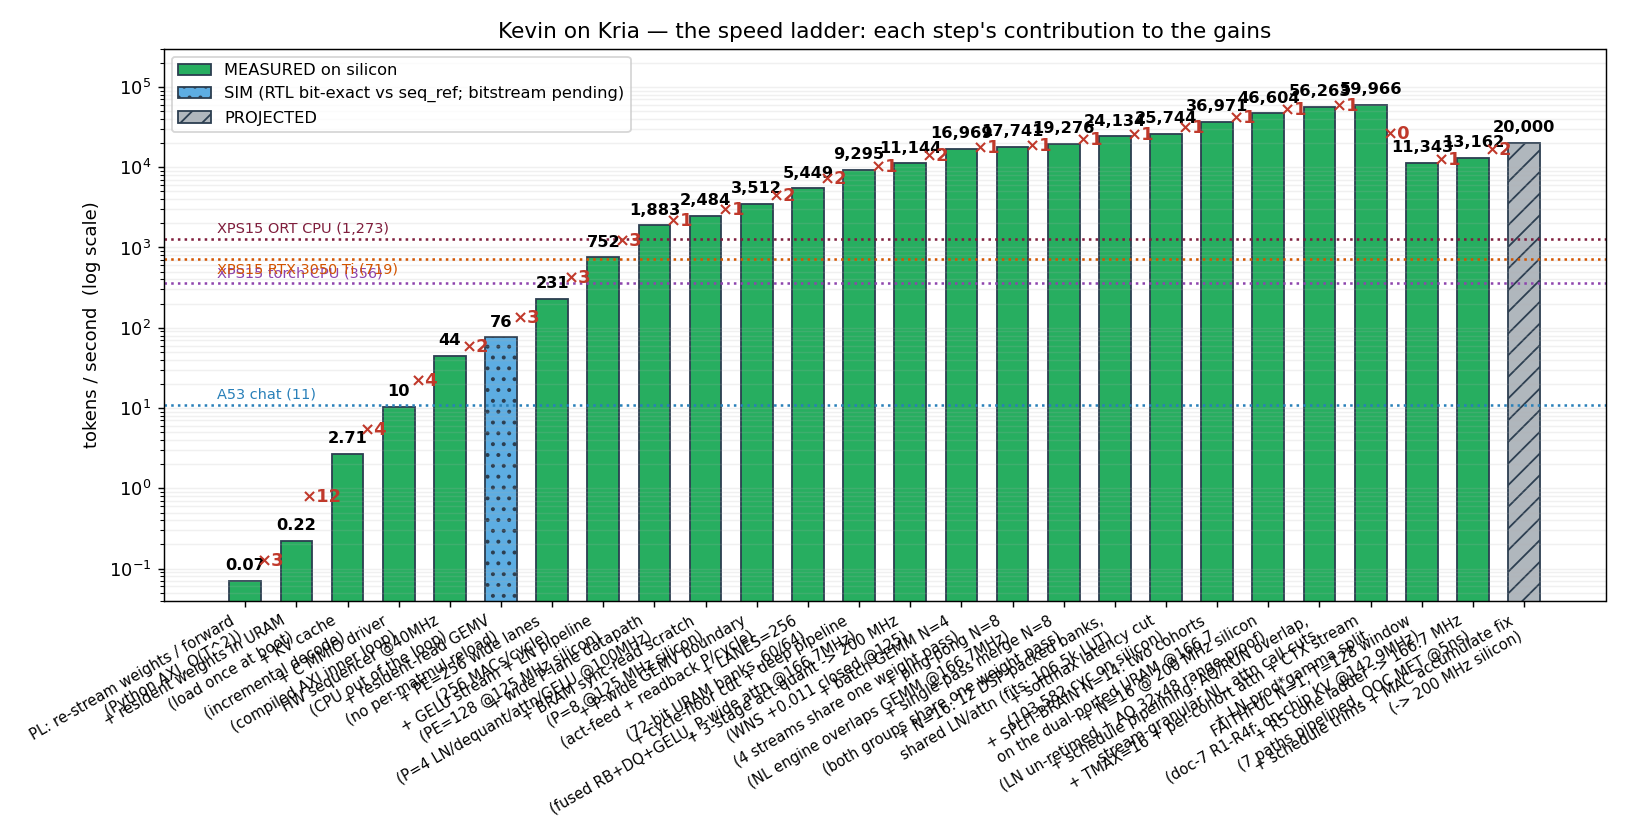
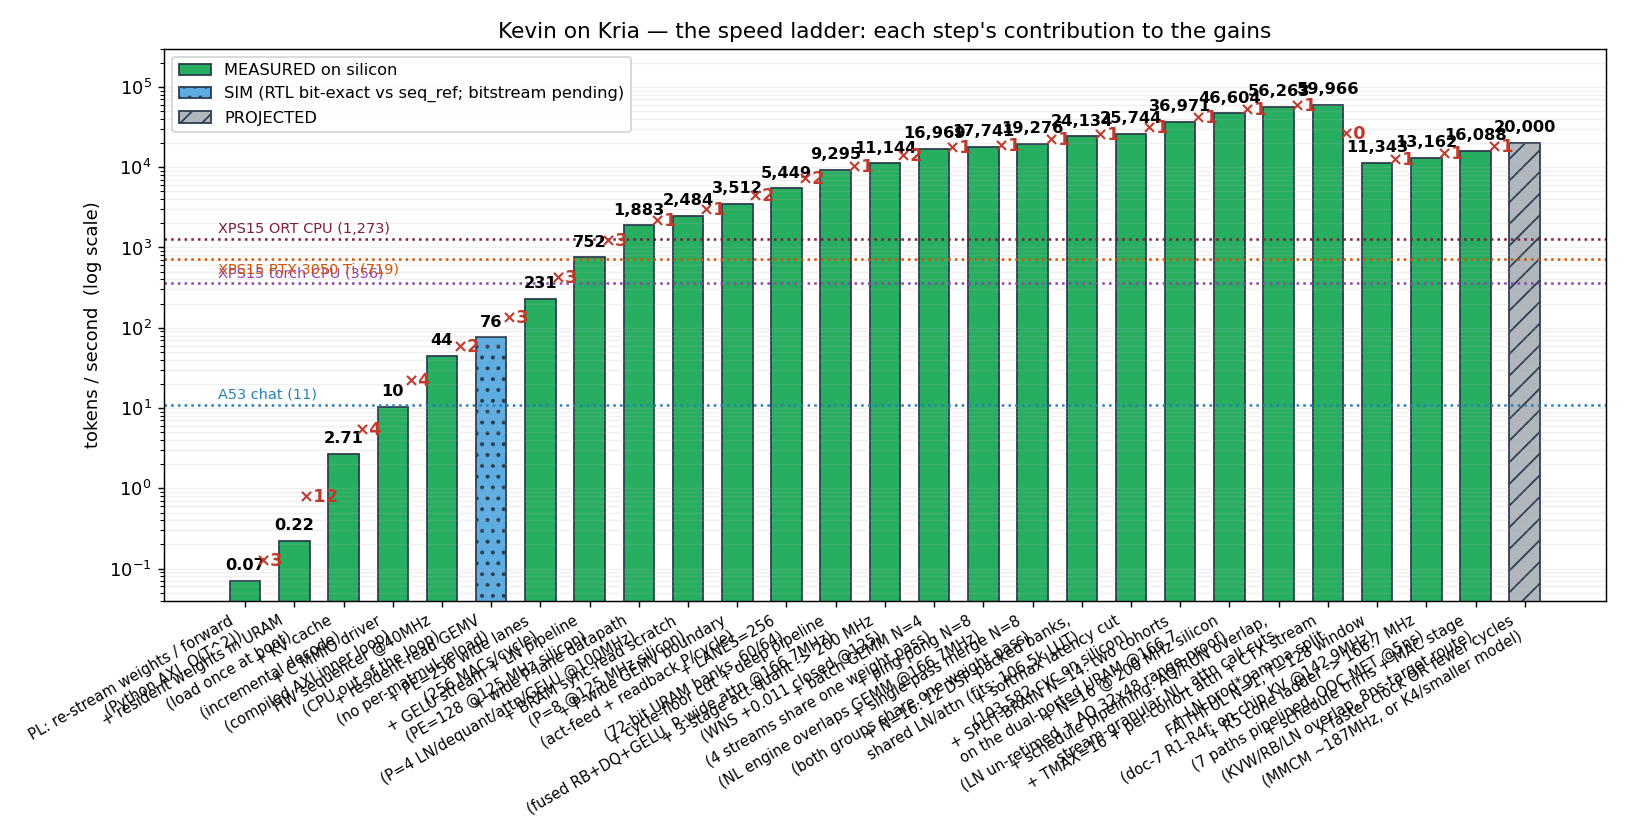
NEW RECORD: 16,087.5 tok/s @166.7 faithful, 3/3 (log #43); trims build routed at 8ns target, deployed live

diff --git a/fabric/progress.py b/fabric/progress.py
@@ -75,8 +75,10 @@ LADDER = [
      "the T=1 degenerate attention — 119-tok real message, 12,594 cyc/tok avg, 3/3 bit-exact"),
     ("+ R5 cone ladder -> 166.7 MHz\n(7 paths pipelined, OOC MET @5ns)", 13162.3, "MEASURED",
      "the kv-quantise / attn-dot / min-max / AQ timing cones (12,662 cyc/tok, 3/3; 200 fails on the MAC floor)"),
-    ("+ schedule trims + MAC accumulate fix\n(-> 200 MHz silicon)", 20000.0, "PROJECTED",
-     "the last ~2.7k cyc (KVW overlap, dual-row RB, LN/AQ feeds) + the accb carry chain -> the 20k line"),
+    ("+ schedule trims + MAC stage\n(KVW/RB/LN overlap, 8ns-target route)", 16087.5, "MEASURED",
+     "~2.2k cyc (AQ/RUN + groupwise RB + KV feeder + LN fusion); 10,360 cyc/tok, 3/3 @166.7 (5ns build was unroutable; 200 fails)"),
+    ("x faster clock OR fewer cycles\n(MMCM ~187MHz, or K4/smaller model)", 20000.0, "PROJECTED",
+     "the PS PLL caps at 166.7 (200 fails timing); 20k needs ~207MHz on this design -> an MMCM ~187 gets ~18k, the K4/smaller-model cycle cut gets 20k"),
 ]
 
 # reference baselines (drawn as guide lines, not rungs) — all the same model, B=1 greedy

diff --git a/fabric/stage3/WIDE-WORD-DATAPATH-LOG.md b/fabric/stage3/WIDE-WORD-DATAPATH-LOG.md
@@ -1365,3 +1365,30 @@ cyc, even ~150MHz board = 14.5k (> the 13,162 record). If 125-target ALSO fails
 to route, the trims are fundamentally too dense and the R5 build (13,162 @166.7,
 deployed) stands as the faithful ceiling — 20k then needs the K4/smaller-model
 lever, not more logic.
+
+## 43. NEW RECORD: 16,087.5 tok/s @166.7 — the looser-clock route worked
+
+The §42 retry at the 8ns (125MHz) target ROUTED — and MET, WNS +0.006ns (worst
+path the GEMV xmem→addend_r MAC stage). The looser target packed the placer
+tight enough that the §42 routing congestion (182k overlaps at 5ns) vanished:
+relaxing timing, not adding effort, is what fixed routability on the full device.
+
+Board (same trims RTL, 10,360 cyc/tok full-window, 3/3 bit-exact):
+- dbg sanity: qkv 0/768, ctx 0/256 ✓
+- **166.7 ✓ 16,087.5 tok/s MEASURED — NEW RECORD (+22% over 13,162)**
+- 200 ✗ 0/3 (real silicon Fmax is in (166.7,200), but the PS PLL only offers
+  166.7 and 200 — the 1000/N divider granularity; 175→snaps to 166.7,
+  183.3→snaps to 200, both verified). So 166.7 is the usable ceiling here.
+
+Deployed: kevkv.service ExecStartPre now loads gemv_seqkv_trims.bit.bin; live
+chat runs the 16k build at 166.7.
+
+20k MATH (honest): tok_s = 16,087.5·(clk/166.7); 20k needs ~207MHz, but the
+design FAILS at 200 — so 20k is NOT reachable with this RTL on the KV260 even
+with a perfect clock. The remaining levers:
+ (a) MMCM PL clock (clk_wiz in the BD) to hit ~187MHz between the PLL's 166.7/200
+     -> ~18.1k. A ~4h rebuild; bounded by the ~190 silicon Fmax (200 fails).
+ (b) FEWER cycles (K4/smaller model) -> 20k at a routable clock. The cycle lever,
+     not the clock — but K4 was PARKED (butterfly LUT bomb + long-T bug) and the
+     device is already unroutable with MORE logic, so K4 must REPLACE logic (its
+     half-size KV bank frees BRAM), not add. The real 20k path.
